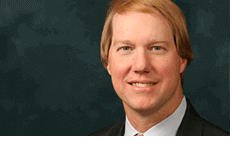
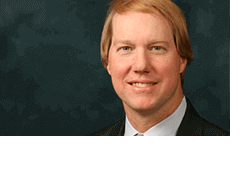
Optimize images, update headline for DAB story

Changed region(s): [[0.0, 0.0312, 0.9625, 0.875], [0.9042, 0.6875, 0.9333, 0.7188], [0.7292, 0.0312, 0.7583, 0.0625]]

diff --git a/newengineer/2016-fall/newengineer-fall2016.html b/newengineer/2016-fall/newengineer-fall2016.html
@@ -416,7 +416,7 @@
 											</tr>
 											<tr>
 												<td class="header4">
-													<a href="https://www.eng.ufl.edu/newengineer/news/incoming-leaders-bring-diverse-experience-deans-advisory-board//?utm_source=newsletter&utm_campaign=fall2016newsletter&utm_medium=email" title="Incoming Leaders Bring Diverse Experience to Dean’s Advisory Board" target="_blank"><img src="https://www.eng.ufl.edu/eblasts/newengineer/2016-fall/images/dab.png" title="Incoming Leaders Bring Diverse Experience to Dean’s Advisory Board" alt="Incoming Leaders Bring Diverse Experience to Dean’s Advisory Board" class="story-image" width="132" height="75" align="left" border="0" />Incoming Leaders Bring Diverse Experience to Dean’s Advisory Board</a>
+													<a href="https://www.eng.ufl.edu/newengineer/news/incoming-leaders-bring-diverse-experience-deans-advisory-board//?utm_source=newsletter&utm_campaign=fall2016newsletter&utm_medium=email" title="Bill Troner to chair Dean's Advisory Board, Carlos del Sol celebrated for his service" target="_blank"><img src="https://www.eng.ufl.edu/eblasts/newengineer/2016-fall/images/dab.png" title="Bill Troner to chair Dean's Advisory Board, Carlos del Sol celebrated for his service" alt="Bill Troner to chair Dean's Advisory Board, Carlos del Sol celebrated for his service" class="story-image" width="132" height="75" align="left" border="0" />Bill Troner to chair Dean's Advisory Board, Carlos del Sol celebrated for his service</a>
 												</td>
 											</tr>
 											<tr>
